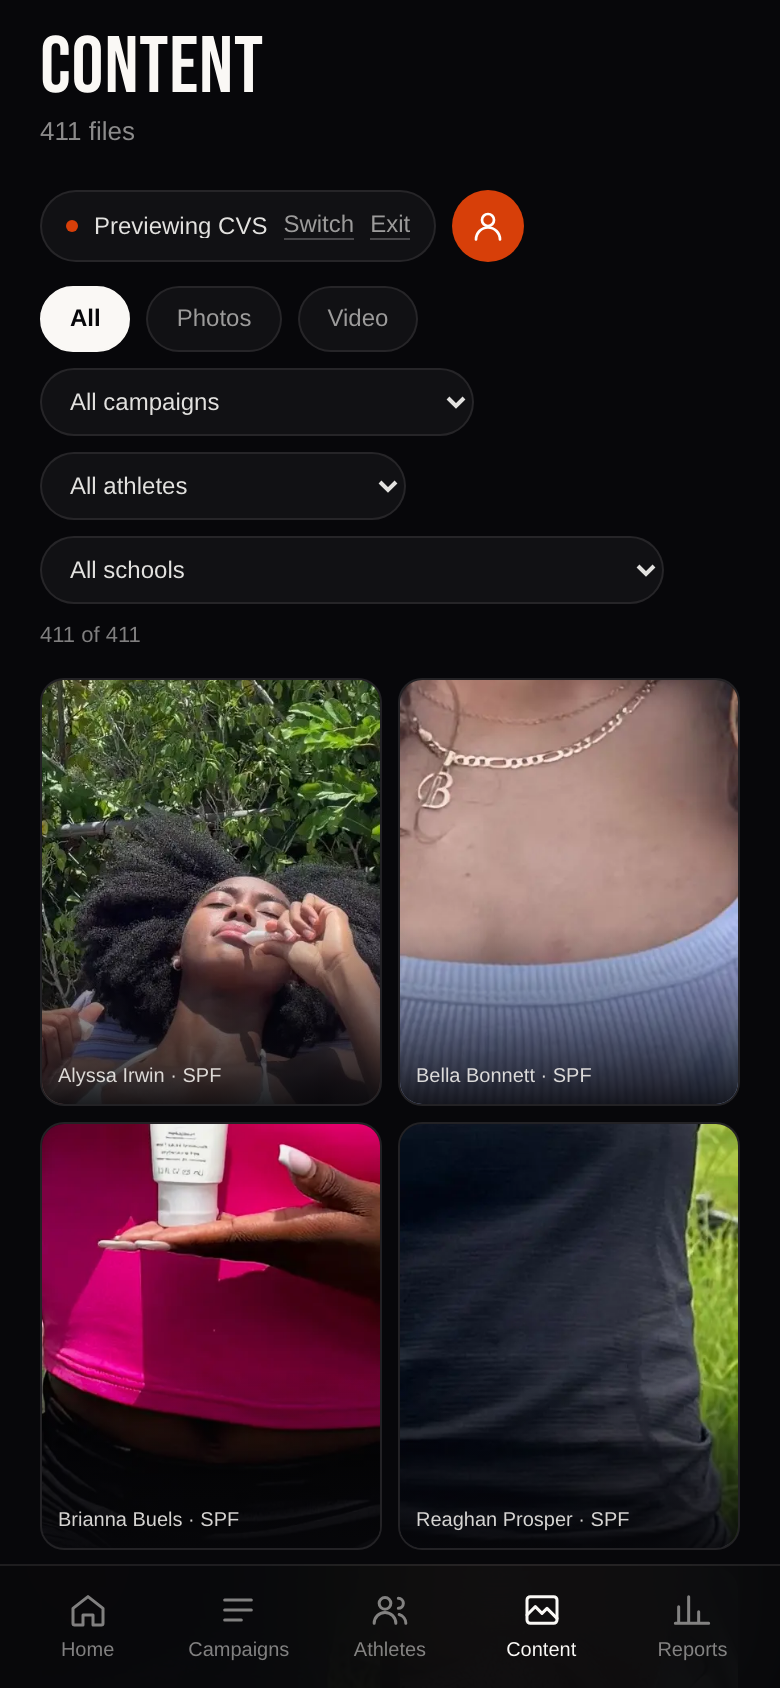
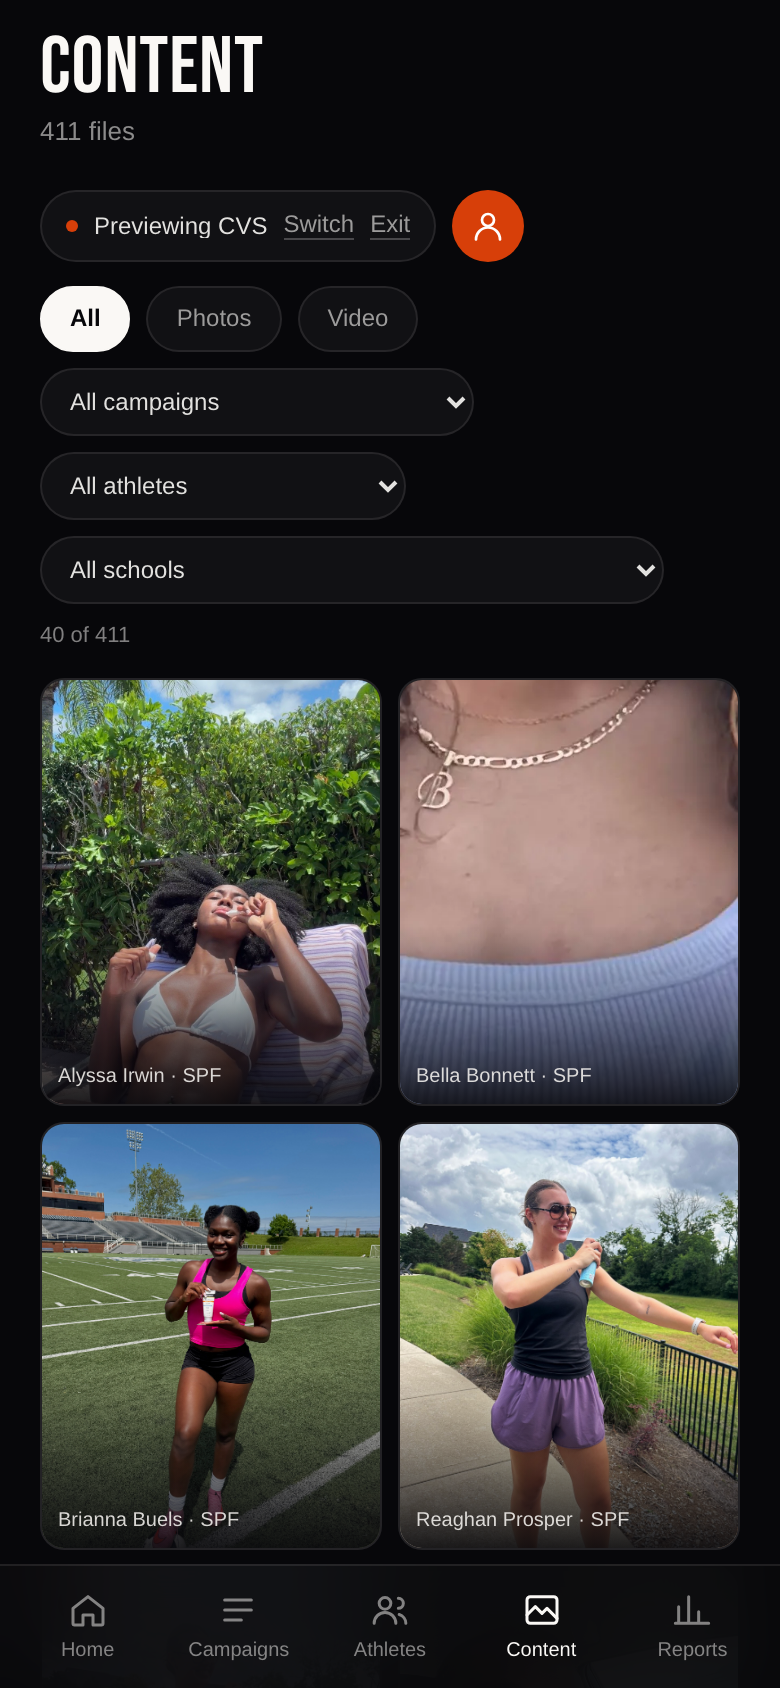
Run log: round two, and the two premises that turned out to be wrong
Records the walkthrough fixes and, importantly, where the diagnosis in the
feedback did not survive checking:

- The transform endpoint was healthy on every URL shape, and 12 real tile URLs
  loaded in-browser in 3-7ms. The gallery's problem was 411 images at once.
  Paging is the fix; dropping the transform hop is the saving. The transform is
  kept for 9 rows because 7 are .HEIC and no browser paints HEIC — serving
  those raw is what made a tile black.
- There is no sanitizer on the recap pages to share; they inject these same
  fields unsanitized. Noted as an open decision rather than copied.
- 45% moved the hero crop the wrong way; the band height was the real
  constraint. focal_y logged as the follow-up, as asked.
- "45 of 46" was caused by 12 empty-string quarters being falsy, not by
  missing data.

Also logs a measurement artefact so it is not chased again: a backgrounded tab
defers lazy images entirely, which looks exactly like images that never load.

Claude-Session: https://claude.ai/code/session_014Ty8dm4y6Yyo6LBNKvR64D

Changed region(s): [[0.0308, 0.3697, 0.9538, 0.9242]]

diff --git a/docs/briefs/runs/phase3b-run.md b/docs/briefs/runs/phase3b-run.md
@@ -215,11 +215,170 @@ changes went in alongside:
 
 ---
 
+## Round two — walkthrough fixes (2026-09-09)
+
+Seven items from Peyton's walkthrough of #252, fixed in the order given. All
+seventeen screenshots in `shots/` were re-rendered afterwards; the two Results
+variants are new (`08-results-html-1440.png`, `09-results-plaintext-1440.png`).
+
+### 1 · Content was black everywhere → paging, and the transform kept only where it is load-bearing
+
+**The stated cause was wrong, and it is worth recording why.** The brief said
+the transform URLs "never finish loading". They load fine. Verified four ways:
+the endpoint returns 200 on every URL shape in this bucket including filenames
+carrying `%20` and parentheses; a 30-request burst came back clean; there are
+no video files being pushed through an image transform (all 104 CVS videos
+have a real `thumbnail_url`, none pointing at the mp4); and twelve real tile
+URLs loaded **in Peyton's own browser in 3-7ms at naturalWidth 420**.
+
+I also spent a measurement on a dead end worth flagging: the page appeared to
+issue *zero* image requests, 411 images stuck "pending". That was an artefact —
+the MCP tab was backgrounded (`visibilityState: "hidden"`) and Chrome defers
+lazy images entirely while a tab is hidden. Second time this run that a
+measurement harness produced a fake symptom; see the headless window-clamp note
+below.
+
+So the real problem was volume: 411 `<img>` on one page, each 80-180KB, on a
+placeholder tint that reads as black on this ground. Fixes:
+
+- `MediaGrid` pages **40 at a time** with "Load more", and any filter change
+  restarts the count.
+- Tiles take `thumbnail_url` as stored, or the plain object URL — **except** for
+  formats a browser cannot paint.
+
+**The exception is load-bearing and it deviates from the instruction.** 7 of
+CVS's 460 rows are `.HEIC`. Serving those raw is what made Bella Bonnett's tile
+black: `content-type: image/heif`, 2.2MB, nothing on screen. The transform
+transcodes them to JPEG. Two more rows carry an extension I cannot identify and
+take the same path. So 451 tiles go direct and 9 are transcoded.
+
+**On the usage badge:** I cannot read the billing dashboard from here, so I
+cannot confirm what is driving it — check Storage → Usage. What I can say is
+that the portal's transform calls drop from **411 per gallery page view to 3**
+(measured on the live page: 37 of the first 40 tiles come from
+`/object/public`, 3 from `/render/image`), and about 9 for the whole gallery.
+Headshots still use a 160px transform, and with the athletes page now paging at
+60 that is at most 60 per view instead of 600.
+
+### 2 · Results tab printed raw HTML → sanitized rich text
+
+`readTakeaways()` split the field on newlines. Right for the plain-text rows,
+wrong for the HTML ones: `<ul><li><p>...` contains no newlines, so the whole
+blob became one array entry and rendered as visible tags.
+
+**There was no existing sanitizer to reuse.** The instruction said "same
+sanitizer the recap pages use" — the recap pages don't sanitize. `CampaignRecap
+.tsx` and `recap-v2/sections/*` pass these same two fields straight into
+`dangerouslySetInnerHTML`; `dompurify` is in `package.json` but nothing in that
+path calls it. Copying that pattern into a client-facing portal would have
+carried the gap forward, so `src/lib/portal/rich-text.ts` is new: a strict
+**default-deny allowlist** — every attribute dropped except a validated `href`,
+`script`/`style`/`iframe` removed with their content, comments stripped. No
+dependency, runs server-side (DOMPurify would need jsdom in the server bundle
+for two fields).
+
+It also handles **both formats**, because the column holds both: HTML on
+Chicago Activation, Minute Clinic, Mother's Day, SPF, W/CWS; plain text with
+`- ` bullets on 26 Spring Epic Beauty and The Tournament; and empty strings
+elsewhere. Checked against 14 inputs including `onerror`, `onclick`,
+`javascript:` hrefs, `svg/onload`, `<style>`, and comment-hidden markup.
+
+**This is worth a decision:** the recap pages are still unsanitized, and they
+render the same fields to the same clients. Not in scope here, not fixed.
+
+### 3 · Reports grouped 45 of 46 under "No quarter on file" → derived quarters
+
+The cause was not missing data. Of the 13 rows whose `quarter` is not null,
+**12 are the empty string** and exactly one holds a real `"Q1 2026"`. Empty
+string is falsy in JS, so they fell in with the true nulls — 45 of 46.
+
+Now: a stored quarter wins if non-empty, otherwise it is derived from
+`admin_created_on` as a **calendar** quarter, and groups sort newest first.
+Derived groups carry a quiet "by delivery date" marker so a reader does not
+mistake the heading for a field somebody set; a group mixing stored and derived
+is not marked. There is no "no quarter" group. Every CVS campaign resolves —
+13 stored, 33 derived, zero with neither. `Undated` remains in the code as a
+last resort for a brand that has a campaign with no quarter *and* no date; it
+cannot be reached with CVS's data, and the only alternative would be inventing
+a date.
+
+If Postgame's reporting year does not start in January these labels will be a
+quarter off — the fix for that is a stored quarter, not a different guess.
+
+### 4 · Image-less cards were tall empty boxes → compact
+
+The grid's default `align-items: stretch` was giving a card with no thumbnail
+the height of one that had a 170px thumb. `.pgd-card-noimg` takes
+`align-self: start`. Verified in the authenticated session, where the full set
+is visible: Strategic Markets, Injured Athlete, Bloomington and 26 Spring Epic
+Beauty went from 262-278px to **72px**; 42 of 52 cards are affected.
+
+### 5 · Campaign hero crop → height, not focal point
+
+**The requested 45% made the reported symptom worse.** A larger
+`object-position` moves the visible window *down* the photo, so 45% moved SPF's
+crop from the forehead to the mouth. Rendered the band at 22 / 28 / 34 / 45 to
+confirm the direction: 28% is hair, 34% eyes, 45% mouth.
+
+The real constraint was the band height. At 240px it showed about 9% of a 1:2
+portrait, which is less than a face occupies — **no** focal point could frame
+one. The hero is now **330px at 30%**, which shows the whole face with nothing
+cut.
+
+**Follow-up, as requested: a `focal_y` column on `media`.** One number cannot
+frame every photograph; 30% is only known to suit the current hero set, and any
+new hero is a fresh coin toss. A per-image focal point set once at upload — or
+derived from a face-detection pass — is the durable fix, and it would also let
+the card thumbnails stop cropping torsos.
+
+### 6 · "600 of 600" → the real total, with paging
+
+The 600 was a cap I chose to stay under PostgREST's hard 1000-row response
+ceiling, and it printed as though it were a total. The directory now walks past
+that ceiling with ranged requests, and the grid pages 60 at a time. Verified
+authenticated: **"1501 athletes", "60 of 1501", "Load 60 more", "1441
+remaining"**, and clicking it goes to 120.
+
+**One number to reconcile:** this says 1,501 where the dashboard KPI says
+1,523. Both are "distinct athletes" but they dedupe differently —
+`portal_brand_athletes` keys on `lower(trim(name))`, `portal_brand_stats`
+counts its own way. The directory figure is the honest one for this page
+because it is the number of rows "Load more" can actually reach. They should be
+made to agree; that is a follow-up, not something to paper over.
+
+### Also found while doing the above, not fixed
+
+- **`review_sessions.campaign_id` references `brand_campaigns`, not
+  `campaign_recaps`.** The dashboard's waiting-on-you count was comparing
+  `campaign_recaps` ids against it, which can never match — it would have read
+  0 forever and looked correct only because the table is empty. Fixed in its
+  own commit on this branch. Found while auditing the same column for Phase 2,
+  where the brief made the identical assumption.
+- **"NCAA Tourney" appears in a CVS key-takeaway** that the portal now renders
+  to the client. CLAUDE.md forbids NCAA trademark terms in brand-facing copy.
+  It is client-authored data in `campaign_recaps.settings`, so I have not
+  rewritten it — but the portal is what makes it brand-facing.
+- **Two Supabase advisors now flag my Phase 2 functions:** `is_brand_user()`
+  and `my_brand_ids()` are `SECURITY DEFINER` and callable by `anon` via
+  `/rest/v1/rpc/...`. Both return false/empty for anon so there is no leak, but
+  the `EXECUTE` grant to `PUBLIC` should be revoked. Phase 2's PR (#254), not
+  this one.
+
 ## The three things to look at first tomorrow
 
-1. **Sign in as a real brand user and re-read every number.** The screenshots are the `anon` view: 0 live / 10 wrapped / 751 athletes. Signed in it should be **6 live / 46 wrapped / 1,523 athletes**. That is the one thing I could not verify end to end, and it is the difference between "these pages work" and "these pages work on the real dataset."
-2. **The campaign detail hero crop.** It is sharp and it is a face, but it is a tight one, and it will be tight differently on every campaign. Decide whether a `focal_y` column on `media` is worth adding, or whether the hero should be a shorter band with the photo contained rather than covering.
-3. **The athletes directory at 600 of 1,501.** Decide whether it needs pagination, infinite scroll, or just a higher cap — 1,501 cards is a lot of DOM, and the answer changes what the page should look like.
+1. **Sign in and re-read every number.** Still the top item: the harness
+   screenshots are the `anon` view (0 live / 10 wrapped / 751 athletes) and a
+   signed-in brand user sees **6 live / 46 wrapped / 1,501 in the directory**.
+   Round two's fixes were verified against the authenticated session for
+   campaigns, athletes and content specifically, so those three are known good
+   on real data; the rest of the screenshots are still anon.
+2. **Decide on `focal_y`, and on the recap pages' missing sanitizer.** Both are
+   things this round worked around rather than solved: the hero is framed by a
+   single hand-tuned percentage that suits today's photos, and the recap
+   renderer still injects unsanitized client HTML on pages CVS can already
+   open.
+3. **Reconcile 1,501 against 1,523.** Two "distinct athlete" counts on two
+   surfaces, from two different dedupe keys, both shown to the same client.
 
 One more worth a glance: the duplicate "Koa Peat" / "Koa Peat2" rows and the
 coach in the athlete directory are data problems the portal is now exposing to
